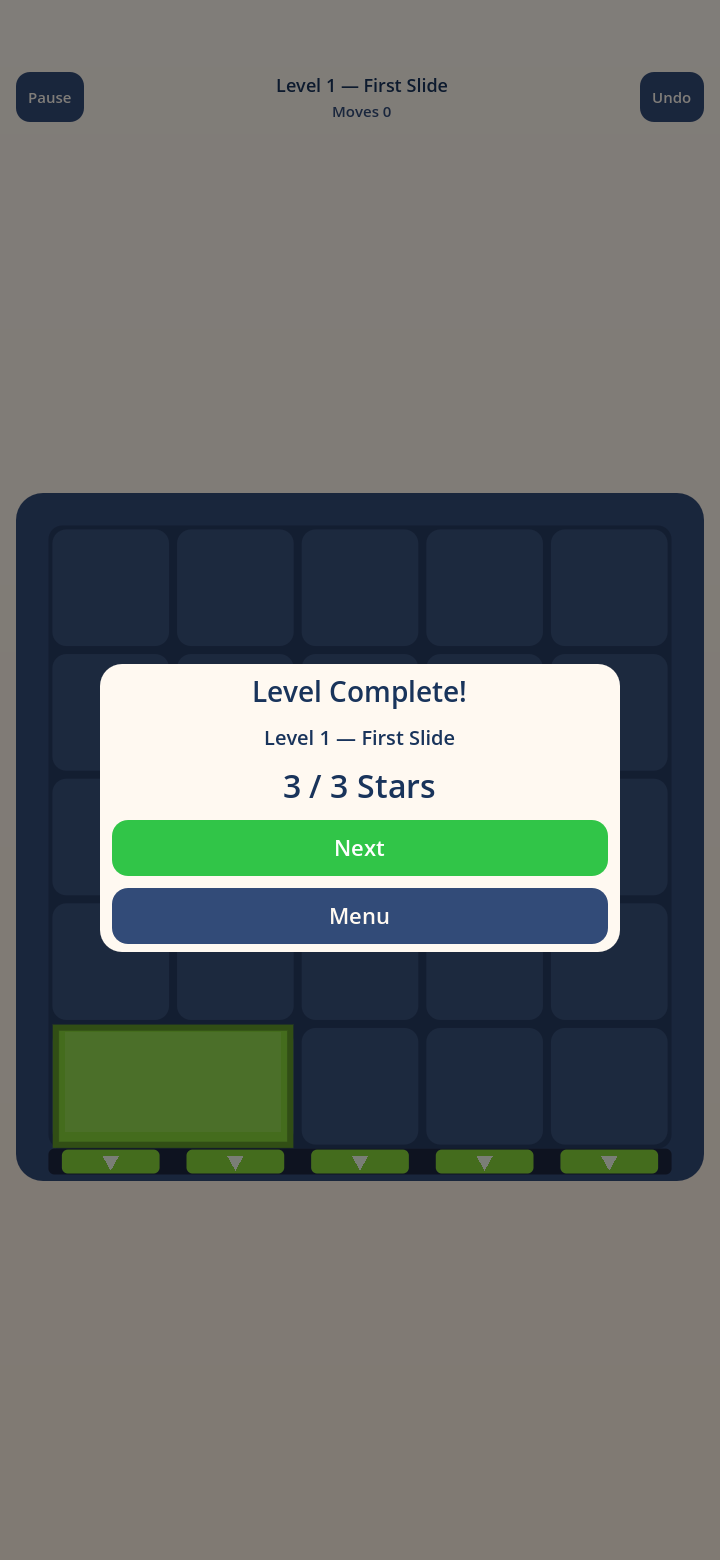
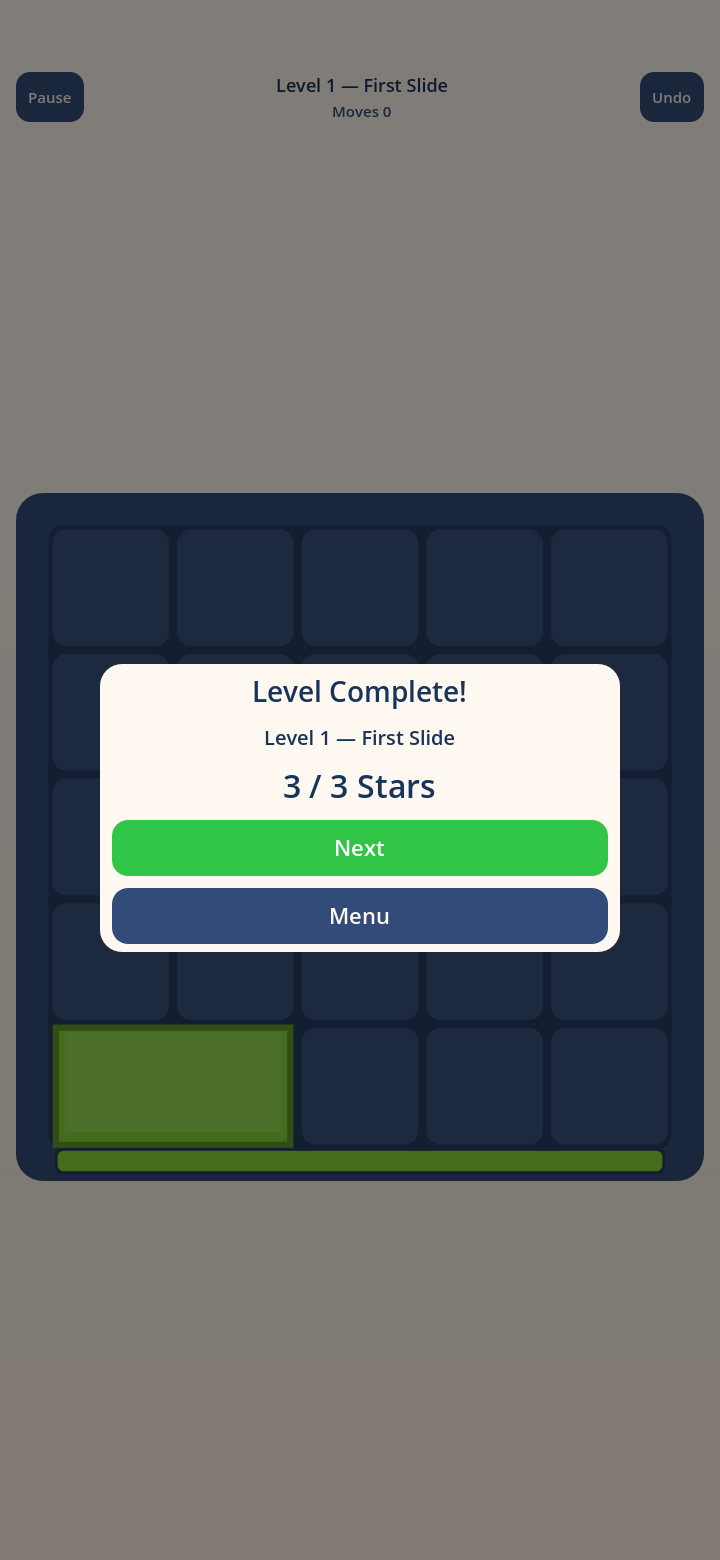
revert: PR #27 cell-door gate renderer
Reverts merge c99efbd (feat/pearl-cell-doors). PR #27 was merged without
owner approval; the owner's review said it is superseded by the
positioned-gate approach (design/gate_proto) and must stay unmerged.

Restored to the pre-#27 state (6daad29): scripts/game/board_view_v2.gd,
test/test_board_geometry.gd, test/shot_pearl.gd and the
docs/qa/pearl_signoff captures and notes.

Kept: the docs/runbooks/testing.md note on running Godot tests one at a
time (shared user://). It documents a test-runner issue, not the renderer.

diff --git a/docs/qa/pearl_signoff/README.md b/docs/qa/pearl_signoff/README.md
@@ -1,17 +1,9 @@
-# Pearl theme — owner visual sign-off pack (decision D3), round 3
+# Pearl theme — owner visual sign-off pack (decision D3), round 2
 
 **Status: pending owner review.** Round 1 (`before/00_contact_sheet_round1.png`) was returned
 with changes requested for the board's left/right edges, the strip under the board and the
-board behind the Pause / Win dialogs. Round 2 corrected the board frame. The owner then asked
-for gates to read as exit openings rather than edge strips and chose style **B, cell doors**
-(`gates/GATE_DESIGN.md`). Round 3 (this pack) shows the frame fix plus cell doors. Presentation
-only. `.gdignore` keeps these files out of the Godot project import.
-
-**Gates (round 3).** Every Classic gate spans its whole edge in the level data (313 of 313),
-so a gate is drawn as one door per cell over exactly the rule's exit range `lo..hi`, each with
-an outward arrow, on a dark rail. Where two colours share an edge (levels 6, 7, 90, 91, 94, 95,
-97, 99) each door is split along the edge into one half per colour, each with its own arrow
-(`gates/l06_shared_edge_closeup.png`); before this, only the last colour was visible.
+board behind the Pause / Win dialogs. Round 2 corrects the board frame (presentation only).
+`.gdignore` keeps these files out of the Godot project import.
 
 **Start here: `00_contact_sheet.png`**, then `11_before_after.png` and `12_responsive.png`.
 
@@ -42,9 +34,8 @@ That is unchanged.
 
 ## What changed
 
-- Gates sit inside the frame band as cell doors on a dark rail over exactly `lo..hi` (round 3;
-  round 2 used one coloured bar). The outer 20 % of the frame band stays an unbroken rim on
-  every side.
+- Gates are a recessed slot inside the frame band (board-bed colour) with the coloured bar inside
+  it. The outer 20 % of the frame band stays an unbroken rim on every side.
 - The board and its frame are fitted together: the frame spans the board area's full width (the
   same edges as the Pause / Undo buttons) unless the height is the limit, and is centred with
   equal margins above and below.
@@ -70,8 +61,6 @@ That is unchanged.
 |`11_before_after.png`|Round-1 device captures vs round-2 renders; desktop 360×800 before / after|composed|
 |`12_responsive.png`|360×800, 393×852, 411×891, M31 canvas × (Level 54, Level 35, Pause, Win)|composed from `responsive/`|
 |`before/`|Round-1 files replaced by this round|device captures and desktop renders|
-|`gates/l06_shared_edge_closeup.png`|Level 6 shared red / blue edge, 360x800 and M31, with zoom|desktop renders|
-|`gates/l06_game_360x800.png`, `gates/l06_game_m31.png`|Level 6 game screen|desktop renders|
 
 Notes
 - **03–06 and 09–10 are desktop renders, not device captures.** The shared Galaxy M31 was not

diff --git a/docs/qa/pearl_signoff/gates/GATE_DESIGN.md b/docs/qa/pearl_signoff/gates/GATE_DESIGN.md
@@ -1,19 +1,8 @@
 # Gate presentation — investigation and alternatives (owner review)
 
-**Status: the owner chose B (cell doors); implemented in PR #27 (renderer only) with the
-mocked defaults: door depth 80 % of the frame band, an arrow on every door, a 10 % cell gap at
-each end of a door. Pearl D3 stays pending until the owner approves the result.** No level
-data, rule, solver, scoring or save change.
-
-**Shared edges, revised after the PR #27 review.** The first build split each door into depth
-lanes (one thin strip per colour, side by side across the frame band) and drew a single arrow
-at the door centre, across both lanes. At 360x800 a depth lane is about 4 canvas units wide,
-too thin for an arrow (1 to 2 px). Each door is now split along the edge instead: on Level 6's
-right edge every cell has a red half and a blue half at full door depth, each with its own
-outward arrow inside its own half, the same size as a single-gate arrow. An arrow is left out
-where it would sit under a lock glyph or counter badge. `test_board_geometry` checks that
-every arrow is inside its own lane, points out of the board, clears the marker and is at least
-90 % of a single-gate arrow. Close-up: `l06_shared_edge_closeup.png` (desktop renders).
+**Status: proposal only. Nothing here is implemented in the game.** PR #26 stays a draft and
+Pearl D3 stays pending until the owner picks a direction. No level data, rule, solver, scoring
+or save change is proposed.
 
 Sheets: `gate_alternatives.png` (4 styles × 5 boards) and `gate_alternatives_zoom.png` (edge
 detail at 1:1). Both are desktop renders at the Galaxy M31 canvas width from
